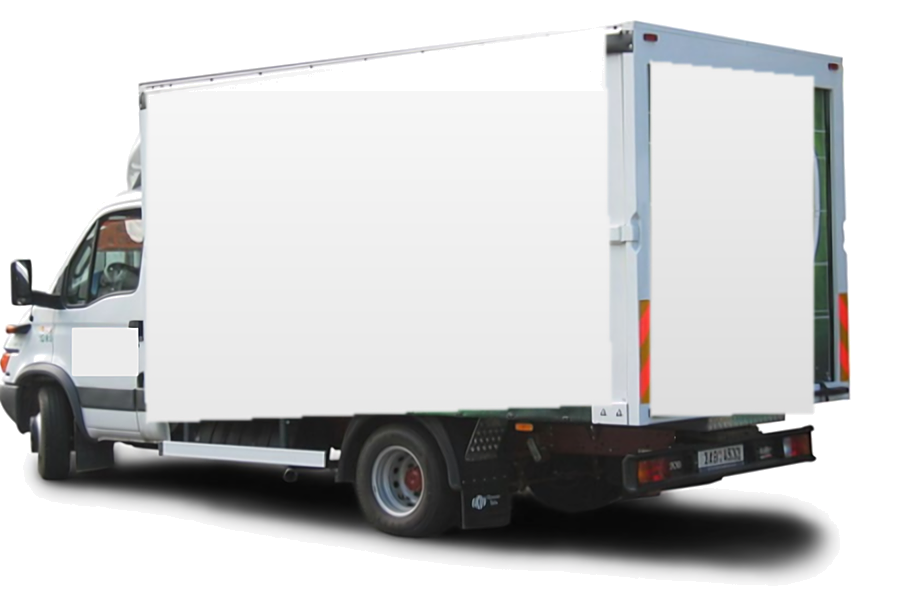
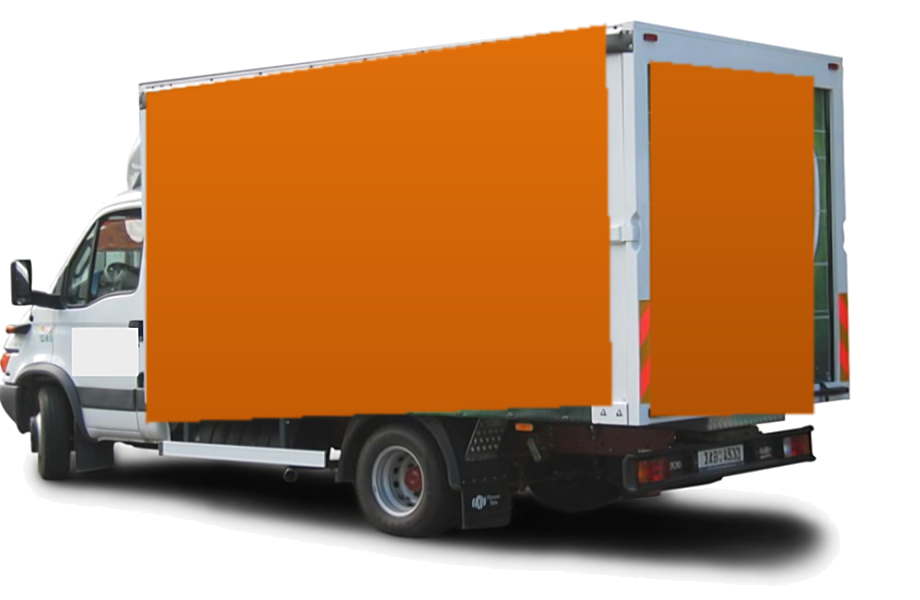
Italszállító KIT csoportkép: a felső autó ponyvája sötétnarancs a Quadris kérésére
Claude-Session: https://claude.ai/code/session_01GqcGcrqDWYvNfyrVUkczEM

diff --git a/scripts/csoportkepek.py b/scripts/csoportkepek.py
@@ -44,7 +44,7 @@ PHOTOS = {
                                       "../data/forras/hatso_ajto_4szarnyu_csoportkep.png"],
     # a Quadris által küldött dobozos felépítmény fotó (a háttérben álló dobozok nélkül, MI-vel nagyítva, élesítve)
     "zart-dobozos-es-hutos-profilok": ["../data/forras/dobozos_profilok_csoportkep.png"],
-    # a Quadris által küldött két italszállító fotó egymás mellett (a felső autó sörreklámja fehér dobozra cserélve,
+    # a Quadris által küldött két italszállító fotó egymás mellett (a felső autó sörreklámja sötétnarancs ponyvára cserélve,
     # MI-vel nagyítva, élesítve)
     "italszallito-kit": ["row", "../data/forras/italszallito_csoportkep_1.png", "../data/forras/italszallito_csoportkep_2.png"],
 }
